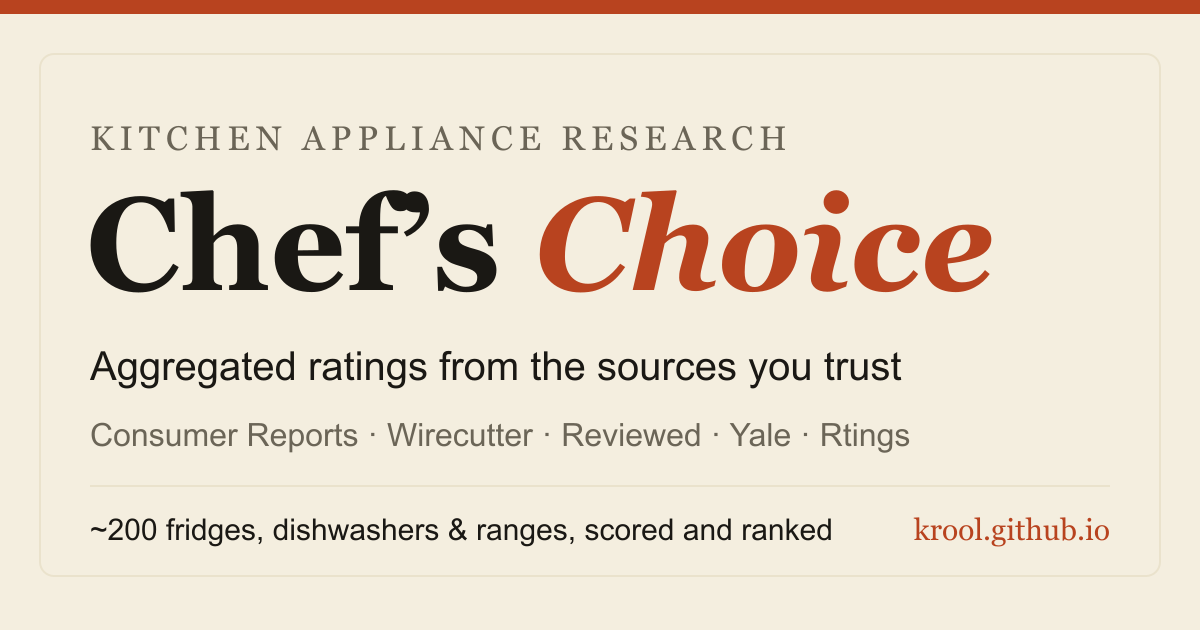
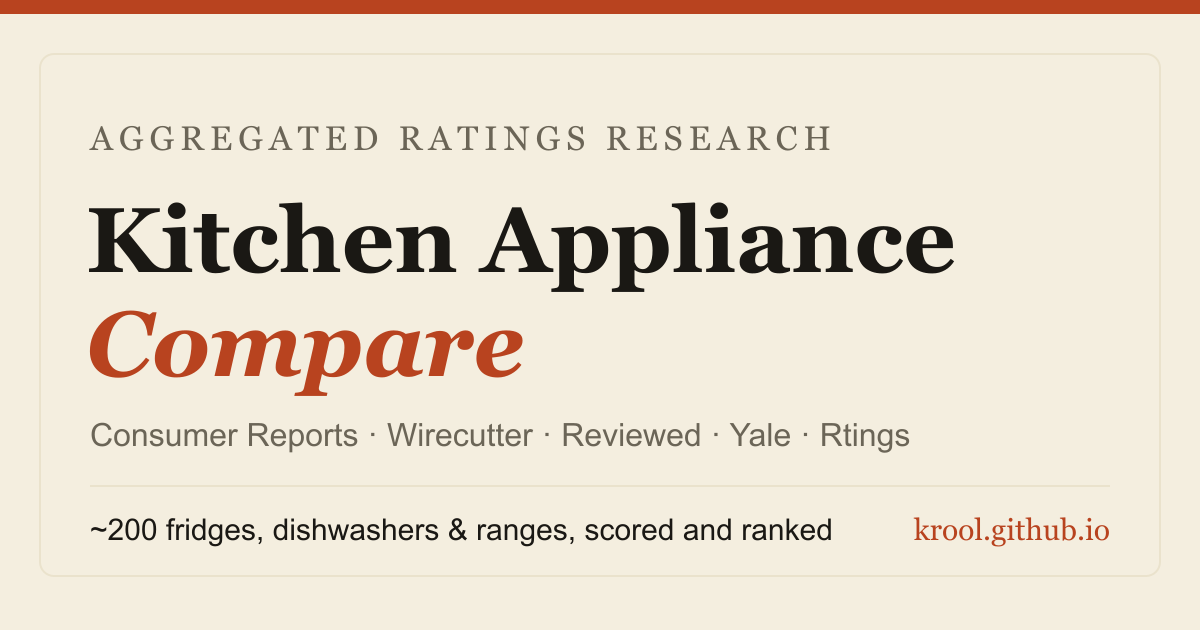
Rebrand: Chef's Choice -> Kitchen Appliance Compare
Updates header brand mark, boot skeleton, page title, OG/Twitter/JSON-LD
metadata, GA content group, og.png card, package name, README, and
CLAUDE.md. Rebuilds docs/.

Changed region(s): [[0.0617, 0.3016, 0.8325, 0.6333], [0.0617, 0.181, 0.7092, 0.2413]]

diff --git a/docs/assets/index-DZJdIyhn.js b/docs/assets/index-DZJdIyhn.js
@@ -127,4 +127,4 @@ Error generating stack: `+i.message+`
   .twk-swatch::-webkit-color-swatch-wrapper{padding:0}
   .twk-swatch::-webkit-color-swatch{border:0;border-radius:5.5px}
   .twk-swatch::-moz-color-swatch{border:0;border-radius:5.5px}
-`,ts=()=>typeof window<"u"&&window.parent!==window;function xp(e){const[t,n]=De.useState(e),r=De.useCallback((l,i)=>{const s=typeof l=="object"&&l!==null?l:{[l]:i};n(u=>({...u,...s})),ts()&&window.parent.postMessage({type:"__edit_mode_set_keys",edits:s},"*")},[]);return[t,r]}function kp({title:e="Tweaks",children:t}){const[n,r]=De.useState(!1),l=De.useRef(null),i=De.useRef({x:16,y:16}),s=16,u=De.useCallback(()=>{const f=l.current;if(!f)return;const g=f.offsetWidth,y=f.offsetHeight,w=Math.max(s,window.innerWidth-g-s),m=Math.max(s,window.innerHeight-y-s);i.current={x:Math.min(w,Math.max(s,i.current.x)),y:Math.min(m,Math.max(s,i.current.y))},f.style.right=i.current.x+"px",f.style.bottom=i.current.y+"px"},[]);De.useEffect(()=>{if(!n)return;if(u(),typeof ResizeObserver>"u")return window.addEventListener("resize",u),()=>window.removeEventListener("resize",u);const f=new ResizeObserver(u);return f.observe(document.documentElement),()=>f.disconnect()},[n,u]),De.useEffect(()=>{const f=g=>{var w;if(g.source!==window.parent)return;const y=(w=g==null?void 0:g.data)==null?void 0:w.type;y==="__activate_edit_mode"?r(!0):y==="__deactivate_edit_mode"&&r(!1)};return window.addEventListener("message",f),ts()&&window.parent.postMessage({type:"__edit_mode_available"},"*"),()=>window.removeEventListener("message",f)},[]);const c=()=>{r(!1),ts()&&window.parent.postMessage({type:"__edit_mode_dismissed"},"*")},a=f=>{const g=l.current;if(!g)return;const y=g.getBoundingClientRect(),w=f.clientX,m=f.clientY,v=window.innerWidth-y.right,P=window.innerHeight-y.bottom,h=p=>{i.current={x:v-(p.clientX-w),y:P-(p.clientY-m)},u()},d=()=>{window.removeEventListener("mousemove",h),window.removeEventListener("mouseup",d)};window.addEventListener("mousemove",h),window.addEventListener("mouseup",d)};return n?o.jsxs(o.Fragment,{children:[o.jsx("style",{children:wp}),o.jsxs("div",{ref:l,className:"twk-panel",style:{right:i.current.x,bottom:i.current.y},children:[o.jsxs("div",{className:"twk-hd",onMouseDown:a,children:[o.jsx("b",{children:e}),o.jsx("button",{className:"twk-x","aria-label":"Close tweaks",onMouseDown:f=>f.stopPropagation(),onClick:c,children:"✕"})]}),o.jsx("div",{className:"twk-body",children:t})]})]}):null}function da({label:e,children:t}){return o.jsxs(o.Fragment,{children:[o.jsx("div",{className:"twk-sect",children:e}),t]})}function Mc({label:e,value:t,children:n,inline:r=!1}){return o.jsxs("div",{className:r?"twk-row twk-row-h":"twk-row",children:[o.jsxs("div",{className:"twk-lbl",children:[o.jsx("span",{children:e}),t!=null&&o.jsx("span",{className:"twk-val",children:t})]}),n]})}function Ft({label:e,value:t,min:n=0,max:r=100,step:l=1,unit:i="",onChange:s}){return o.jsx(Mc,{label:e,value:`${t}${i}`,children:o.jsx("input",{type:"range",className:"twk-slider",min:n,max:r,step:l,"aria-label":e,value:t,onChange:u=>s(Number(u.target.value))})})}function _p({label:e,value:t,onChange:n}){return o.jsxs("div",{className:"twk-row twk-row-h",children:[o.jsx("div",{className:"twk-lbl",children:o.jsx("span",{children:e})}),o.jsx("button",{type:"button",className:"twk-toggle","data-on":t?"1":"0",role:"switch","aria-checked":!!t,"aria-label":e,onClick:()=>n(!t),children:o.jsx("i",{})})]})}function Sp({label:e,value:t,options:n,onChange:r}){const l=De.useRef(null),[i,s]=De.useState(!1),u=n.map(m=>typeof m=="object"?m:{value:m,label:m}),c=Math.max(0,u.findIndex(m=>m.value===t)),a=u.length,f=De.useRef(t);f.current=t;const g=m=>{const v=l.current.getBoundingClientRect(),P=v.width-4,h=Math.floor((m-v.left-2)/P*a);return u[Math.max(0,Math.min(a-1,h))].value},y=m=>{s(!0);const v=g(m.clientX);v!==f.current&&r(v);const P=d=>{if(!l.current)return;const p=g(d.clientX);p!==f.current&&r(p)},h=()=>{s(!1),window.removeEventListener("pointermove",P),window.removeEventListener("pointerup",h)};window.addEventListener("pointermove",P),window.addEventListener("pointerup",h)},w=m=>{let v=null;m.key==="ArrowRight"||m.key==="ArrowDown"?v=(c+1)%a:m.key==="ArrowLeft"||m.key==="ArrowUp"?v=(c-1+a)%a:m.key==="Home"?v=0:m.key==="End"&&(v=a-1),v!=null&&(m.preventDefault(),r(u[v].value))};return o.jsx(Mc,{label:e,children:o.jsxs("div",{ref:l,role:"radiogroup","aria-label":e,onPointerDown:y,className:i?"twk-seg dragging":"twk-seg",children:[o.jsx("div",{className:"twk-seg-thumb",style:{left:`calc(2px + ${c} * (100% - 4px) / ${a})`,width:`calc((100% - 4px) / ${a})`}}),u.map(m=>o.jsx("button",{type:"button",role:"radio","aria-checked":m.value===t,tabIndex:m.value===t?0:-1,onKeyDown:w,onClick:()=>r(m.value),children:m.label},m.value))]})})}const Rc="cc:state:v1",Tc=new Set(["refrigerators","dishwashers","ranges_ovens_cooktops","guide"]),zc="refrigerators",Lc={brand:"array",tier:"array",style:"array",depth:"array",fuel:"array",type:"array",tub:"array",reliability:"array",width:"array-num",priceMin:"num",priceMax:"num",dbMax:"num",capacityMin:"num",capacityMax:"num",heightMin:"num",heightMax:"num",energyStar:"bool",wifi:"bool",panelReady:"bool",airFry:"bool",location:"str"};function jp(e,t){for(const[n,r]of Object.entries(Lc)){const l=t[n];l==null||l===""||Array.isArray(l)&&l.length===0||l===!1||(r==="array"||r==="array-num"?e.set(n,l.join(",")):r==="bool"?e.set(n,"1"):e.set(n,String(l)))}}function Np(e){const t={};for(const[n,r]of Object.entries(Lc)){const l=e.get(n);if(l!=null)if(r==="array")t[n]=l.split(",").filter(Boolean);else if(r==="array-num")t[n]=l.split(",").map(Number).filter(i=>!Number.isNaN(i));else if(r==="num"){const i=Number(l);Number.isNaN(i)||(t[n]=i)}else r==="bool"?l==="1"&&(t[n]=!0):t[n]=l}return t}function Cp(){const e=window.location.hash.replace(/^#/,"");if(!e)return null;const t=new URLSearchParams(e),n=t.get("tab"),r=t.get("c");return{tab:Tc.has(n)?n:null,search:t.get("q")||"",collapsed:r!=null?Object.fromEntries(r.split(",").filter(Boolean).map(l=>[l,!0])):null,filters:Np(t)}}function Ep({tab:e,filters:t,search:n,collapsed:r}){const l=new URLSearchParams;e&&e!==zc&&l.set("tab",e),e!=="guide"&&(jp(l,t),n&&l.set("q",n));const i=Object.keys(r).filter(a=>r[a]);i.length&&l.set("c",i.join(","));const s=l.toString(),u=s?"#"+s:"";if(window.location.hash===u)return;const c=window.location.pathname+window.location.search+u;window.history.replaceState(null,"",c||window.location.pathname)}function oi(){try{return JSON.parse(localStorage.getItem(Rc))||{}}catch{return{}}}function Pp(e){try{localStorage.setItem(Rc,JSON.stringify(e))}catch{}}const Mp={weight_quality:30,weight_reliability:15,weight_price:5,weight_repairability:5,weight_energy:5,weight_quiet:10,weight_endorsements:30,density:"comfortable",showRetiredScores:!0,hideThinConfidence:!1};function Rp({data:e}){var le,ft,M;const t=I.useMemo(()=>{const x=Cp(),R=oi();let D;x!=null&&x.tab?D=x.tab:R.tab&&Tc.has(R.tab)?D=R.tab:D=zc;const W=R.byCategory&&R.byCategory[D]||{},Ce=x&&(Object.keys(x.filters).length>0||x.search);return{tab:D,filters:Ce?x.filters:W.filters||{},search:Ce?x.search:W.search||"",collapsed:(x==null?void 0:x.collapsed)!=null?x.collapsed:R.collapsed||{}}},[]),[n,r]=I.useState(t.tab),[l,i]=I.useState(t.filters),[s,u]=I.useState({key:"score",dir:"desc"}),[c,a]=I.useState(t.search),[f,g]=I.useState(t.collapsed),[y,w]=I.useState(null),[m,v]=I.useState([]),[P,h]=I.useState(!1),[d,p]=xp(Mp),_={quality:d.weight_quality,reliability:d.weight_reliability,price:d.weight_price,repairability:d.weight_repairability,energy:d.weight_energy,quiet:d.weight_quiet,endorsements:d.weight_endorsements},j=n==="guide",k=j?"refrigerators":n,E=I.useMemo(()=>{const x=e.categories[k];return x?x.models:[]},[e,k]),C=I.useMemo(()=>{const x={};return e.brands.forEach(R=>x[R.id]=R),x},[e.brands]),L=I.useMemo(()=>E.filter(x=>{var W,Ce,Fe,S,F,b,Ee,pt,tt,ae;const R=C[x.brand];if((W=l.brand)!=null&&W.length&&!l.brand.includes(x.brand)||(Ce=l.tier)!=null&&Ce.length&&!l.tier.includes(R==null?void 0:R.tier)||(Fe=l.style)!=null&&Fe.length&&!l.style.includes(x.style)||(S=l.depth)!=null&&S.length&&!l.depth.includes(x.depth)||(F=l.width)!=null&&F.length&&!l.width.includes(x.width_in)||(b=l.fuel)!=null&&b.length&&!l.fuel.includes(x.fuel)||(Ee=l.type)!=null&&Ee.length&&!l.type.includes(x.type)||(pt=l.reliability)!=null&&pt.length&&!l.reliability.includes((tt=x.ratings)==null?void 0:tt.cr_reliability)||(ae=l.tub)!=null&&ae.length&&!l.tub.includes(x.tub)||l.energyStar&&!x.energy_star||l.wifi&&!x.wifi||l.panelReady&&!x.panel_ready||l.airFry&&!x.air_fry)return!1;if(l.location==="garage"){if(!x.garage_ready)return!1}else if(x.garage_ready===!0)return!1;const D=x.street_price??x.msrp;if(l.priceMin!=null&&D<l.priceMin||l.priceMax!=null&&D>l.priceMax)return!1;if(l.dbMax!=null){const te=x.decibels??x.noise_db;if(te==null||te>l.dbMax)return!1}if(l.capacityMin!=null||l.capacityMax!=null){const te=x.capacity_cf??x.oven_capacity_cf;if(te==null||l.capacityMin!=null&&te<l.capacityMin||l.capacityMax!=null&&te>l.capacityMax)return!1}if(l.heightMin!=null||l.heightMax!=null){const te=x.height_in;if(te==null||l.heightMin!=null&&te<l.heightMin||l.heightMax!=null&&te>l.heightMax)return!1}if(c){const te=c.toLowerCase();if(!(x.name+" "+x.model+" "+((R==null?void 0:R.name)||"")).toLowerCase().includes(te))return!1}return!(d.hideThinConfidence&&Fl(x,R).tier==="thin")}),[E,l,C,c,d.hideThinConfidence]),z=I.useRef(t.tab);I.useEffect(()=>{if(z.current===n||(z.current=n,u({key:"score",dir:"desc"}),n==="guide"))return;const x=oi(),R=x.byCategory&&x.byCategory[n]||{};i(R.filters||{}),a(R.search||"")},[n]),I.useEffect(()=>{const x=oi(),R={...x,tab:n,collapsed:f};n!=="guide"&&(R.byCategory={...x.byCategory||{},[n]:{filters:l,search:c}}),Pp(R),Ep({tab:n,filters:l,search:c,collapsed:f})},[n,l,c,f]);const $=L.find(x=>x.id===y)||E.find(x=>x.id===y),pe=$?C[$.brand]:null,we=x=>{v(R=>R.includes(x)?R.filter(D=>D!==x):R.length>=4?R:[...R,x])},xe=[{id:"refrigerators",label:"Refrigerators",n:e.categories.refrigerators.models.length},{id:"dishwashers",label:"Dishwashers",n:e.categories.dishwashers.models.length},{id:"ranges_ovens_cooktops",label:"Ranges & Ovens",n:e.categories.ranges_ovens_cooktops.models.length},{id:"guide",label:"Buying Guide"}],Ge=I.useMemo(()=>e.categories.refrigerators.models.length+e.categories.dishwashers.models.length+e.categories.ranges_ovens_cooktops.models.length,[e]);return I.useEffect(()=>(m.length?document.body.classList.add("has-compare"):document.body.classList.remove("has-compare"),()=>document.body.classList.remove("has-compare")),[m.length]),I.useEffect(()=>(document.body.dataset.density=d.density,()=>{delete document.body.dataset.density}),[d.density]),o.jsxs(o.Fragment,{children:[o.jsx("a",{className:"skip-link",href:"#main",children:"Skip to main content"}),o.jsx("header",{className:"site-header",children:o.jsxs("div",{className:"header-inner",children:[o.jsxs("div",{className:"brand",children:[o.jsxs("span",{className:"brand-mark",children:["Chef's ",o.jsx("em",{children:"Choice"})]}),o.jsx("span",{className:"brand-tag",children:"Kitchen appliance research · 2026"})]}),o.jsx("nav",{className:"tabs","aria-label":"Section",children:xe.map(x=>o.jsxs("button",{"aria-current":n===x.id?"page":void 0,className:"tab-btn "+(n===x.id?"active":""),onClick:()=>r(x.id),children:[x.label,x.n?o.jsx("span",{className:"tab-count",children:x.n}):null]},x.id))}),o.jsx("div",{className:"header-right",children:o.jsxs("span",{className:"header-stats",children:[o.jsx("strong",{children:e.brands.length})," brands · ",o.jsx("strong",{children:Ge})," models"]})})]})}),j?o.jsx("main",{className:"guide-wrap",id:"main",tabIndex:-1,children:o.jsx(zp,{guide:e.guide,brandsById:C})}):o.jsxs("main",{className:"app",id:"main",tabIndex:-1,children:[o.jsx(ap,{category:k,models:E,brands:e.brands,filters:l,setFilters:i,collapsed:f,setCollapsed:g,onClearAll:()=>{i({}),a("")}}),o.jsxs("div",{className:"main",children:[o.jsxs("h1",{className:"sr-only",children:["Chef's Choice — ",((le=xe.find(x=>x.id===n))==null?void 0:le.label)||"kitchen appliance"," research"]}),o.jsxs("div",{className:"toolbar",children:[o.jsxs("div",{className:"search-box",children:[o.jsx("input",{value:c,onChange:x=>a(x.target.value),"aria-label":`Search ${(ft=xe.find(x=>x.id===n))==null?void 0:ft.label.toLowerCase()}`,placeholder:`Search ${(M=xe.find(x=>x.id===n))==null?void 0:M.label.toLowerCase()}…`}),c&&o.jsx("button",{type:"button",className:"search-clear","aria-label":"Clear search",onClick:()=>a(""),children:"✕"})]}),k==="refrigerators"&&o.jsx(Tp,{value:l.location||"kitchen",onChange:x=>i({...l,location:x==="kitchen"?null:x})})]}),o.jsxs("div",{className:"results-meta",children:[o.jsxs("span",{"aria-live":"polite","aria-atomic":"true",children:["Showing ",o.jsx("strong",{children:L.length})," of ",E.length," models"]}),o.jsx("span",{children:"Click a column header to sort. Click any row for full specs."})]}),o.jsx(hp,{category:k,models:L,brandsById:C,weights:_,sort:s,setSort:u,selected:m,toggleCompare:we,onOpen:x=>w(x.id),onClearFilters:()=>{i({}),a("")}})]})]}),$&&o.jsx(mp,{model:$,brand:pe,weights:_,onClose:()=>w(null),onAddCompare:x=>we(x),isCompared:m.includes(y)}),o.jsx(gp,{ids:m,models:[...e.categories.refrigerators.models,...e.categories.dishwashers.models,...e.categories.ranges_ovens_cooktops.models],brandsById:C,onRemove:x=>v(R=>R.filter(D=>D!==x)),onClear:()=>v([]),onOpen:()=>h(!0)}),P&&o.jsx(yp,{ids:m,models:[...e.categories.refrigerators.models,...e.categories.dishwashers.models,...e.categories.ranges_ovens_cooktops.models],brandsById:C,weights:_,onClose:()=>h(!1)}),o.jsxs(kp,{title:"Tweaks",children:[o.jsxs(da,{label:"Score weights",children:[o.jsx(Ft,{label:"Quality (review aggregate)",value:d.weight_quality,onChange:x=>p("weight_quality",x),min:0,max:50,step:5}),o.jsx(Ft,{label:"Endorsements (editorial picks)",value:d.weight_endorsements,onChange:x=>p("weight_endorsements",x),min:0,max:50,step:5}),o.jsx(Ft,{label:"Reliability (Yale service rate)",value:d.weight_reliability,onChange:x=>p("weight_reliability",x),min:0,max:50,step:5}),o.jsx(Ft,{label:"Price",value:d.weight_price,onChange:x=>p("weight_price",x),min:0,max:50,step:5}),o.jsx(Ft,{label:"Repairability",value:d.weight_repairability,onChange:x=>p("weight_repairability",x),min:0,max:50,step:5}),o.jsx(Ft,{label:"Energy (ongoing cost)",value:d.weight_energy,onChange:x=>p("weight_energy",x),min:0,max:50,step:5}),o.jsx(Ft,{label:"Quietness",value:d.weight_quiet,onChange:x=>p("weight_quiet",x),min:0,max:50,step:5})]}),o.jsxs(da,{label:"Display",children:[o.jsx(Sp,{label:"Density",value:d.density,onChange:x=>p("density",x),options:[{value:"comfortable",label:"Comfortable"},{value:"compact",label:"Compact"}]}),o.jsx(_p,{label:"Hide thin-confidence rows",value:d.hideThinConfidence,onChange:x=>p("hideThinConfidence",x)})]})]})]})}function Tp({value:e,onChange:t}){const n=[{id:"kitchen",label:"Kitchen",tip:"Indoor-only fridges. Hides garage-rated models — those are tuned for wider ambient temps and aren't really designed for indoors."},{id:"garage",label:"Garage",tip:"Only models the manufacturer rates as Garage Ready (wider ambient temp range, typically 38–110°F)."}],r=l=>{const i=n.findIndex(u=>u.id===e);let s=null;l.key==="ArrowRight"||l.key==="ArrowDown"?s=(i+1)%n.length:(l.key==="ArrowLeft"||l.key==="ArrowUp")&&(s=(i-1+n.length)%n.length),s!=null&&(l.preventDefault(),t(n[s].id))};return o.jsxs("div",{className:"loc-toggle",role:"radiogroup","aria-label":"Refrigerator location",children:[o.jsx("span",{className:"loc-toggle-label","aria-hidden":"true",children:"Location"}),n.map(l=>o.jsxs("button",{role:"radio",type:"button","aria-checked":e===l.id,tabIndex:e===l.id?0:-1,className:e===l.id?"active":"",onClick:()=>t(l.id),onKeyDown:r,children:[o.jsx("span",{className:"th-label",children:l.label}),o.jsx("span",{className:"th-tip",role:"tooltip",children:l.tip})]},l.id))]})}function zp({guide:e,brandsById:t}){const[n,r]=I.useState("refrigerators"),l=[["refrigerators","Refrigerators"],["dishwashers","Dishwashers"],["ranges_ovens_cooktops","Ranges, Ovens & Cooktops"]];return o.jsxs(o.Fragment,{children:[o.jsx("div",{className:"guide-cat-tabs",role:"group","aria-label":"Guide category",children:l.map(([i,s])=>o.jsx("button",{type:"button","aria-pressed":n===i,className:"guide-cat-tab "+(n===i?"active":""),onClick:()=>r(i),children:s},i))}),o.jsx(vp,{guide:e,category:n,brandsById:t})]})}async function Lp(){const e=async s=>{const u=await fetch(s);if(!u.ok)throw new Error(`${s}: ${u.status} ${u.statusText}`);return u.json()},[t,n,r,l,i]=await Promise.all([e("data/brands.json"),e("data/refrigerators.json"),e("data/dishwashers.json"),e("data/ovens.json"),e("data/buying-guide.json")]);return{brands:t.brands,categories:{refrigerators:{models:n.models},dishwashers:{models:r.models},ranges_ovens_cooktops:{models:l.models}},guide:i}}Lp().then(e=>{ai.createRoot(document.getElementById("root")).render(o.jsx(De.StrictMode,{children:o.jsx(Rp,{data:e})}))}).catch(e=>{const t=document.getElementById("root");t.textContent="";const n=document.createElement("div");n.style.cssText="padding:40px;font-family:system-ui;color:#9b2226";const r=document.createElement("h2");r.textContent="Failed to load data";const l=document.createElement("pre");l.textContent=e.message,n.appendChild(r),n.appendChild(l),t.appendChild(n)});
+`,ts=()=>typeof window<"u"&&window.parent!==window;function xp(e){const[t,n]=De.useState(e),r=De.useCallback((l,i)=>{const s=typeof l=="object"&&l!==null?l:{[l]:i};n(u=>({...u,...s})),ts()&&window.parent.postMessage({type:"__edit_mode_set_keys",edits:s},"*")},[]);return[t,r]}function kp({title:e="Tweaks",children:t}){const[n,r]=De.useState(!1),l=De.useRef(null),i=De.useRef({x:16,y:16}),s=16,u=De.useCallback(()=>{const f=l.current;if(!f)return;const g=f.offsetWidth,y=f.offsetHeight,w=Math.max(s,window.innerWidth-g-s),m=Math.max(s,window.innerHeight-y-s);i.current={x:Math.min(w,Math.max(s,i.current.x)),y:Math.min(m,Math.max(s,i.current.y))},f.style.right=i.current.x+"px",f.style.bottom=i.current.y+"px"},[]);De.useEffect(()=>{if(!n)return;if(u(),typeof ResizeObserver>"u")return window.addEventListener("resize",u),()=>window.removeEventListener("resize",u);const f=new ResizeObserver(u);return f.observe(document.documentElement),()=>f.disconnect()},[n,u]),De.useEffect(()=>{const f=g=>{var w;if(g.source!==window.parent)return;const y=(w=g==null?void 0:g.data)==null?void 0:w.type;y==="__activate_edit_mode"?r(!0):y==="__deactivate_edit_mode"&&r(!1)};return window.addEventListener("message",f),ts()&&window.parent.postMessage({type:"__edit_mode_available"},"*"),()=>window.removeEventListener("message",f)},[]);const c=()=>{r(!1),ts()&&window.parent.postMessage({type:"__edit_mode_dismissed"},"*")},a=f=>{const g=l.current;if(!g)return;const y=g.getBoundingClientRect(),w=f.clientX,m=f.clientY,v=window.innerWidth-y.right,P=window.innerHeight-y.bottom,h=p=>{i.current={x:v-(p.clientX-w),y:P-(p.clientY-m)},u()},d=()=>{window.removeEventListener("mousemove",h),window.removeEventListener("mouseup",d)};window.addEventListener("mousemove",h),window.addEventListener("mouseup",d)};return n?o.jsxs(o.Fragment,{children:[o.jsx("style",{children:wp}),o.jsxs("div",{ref:l,className:"twk-panel",style:{right:i.current.x,bottom:i.current.y},children:[o.jsxs("div",{className:"twk-hd",onMouseDown:a,children:[o.jsx("b",{children:e}),o.jsx("button",{className:"twk-x","aria-label":"Close tweaks",onMouseDown:f=>f.stopPropagation(),onClick:c,children:"✕"})]}),o.jsx("div",{className:"twk-body",children:t})]})]}):null}function da({label:e,children:t}){return o.jsxs(o.Fragment,{children:[o.jsx("div",{className:"twk-sect",children:e}),t]})}function Mc({label:e,value:t,children:n,inline:r=!1}){return o.jsxs("div",{className:r?"twk-row twk-row-h":"twk-row",children:[o.jsxs("div",{className:"twk-lbl",children:[o.jsx("span",{children:e}),t!=null&&o.jsx("span",{className:"twk-val",children:t})]}),n]})}function Ft({label:e,value:t,min:n=0,max:r=100,step:l=1,unit:i="",onChange:s}){return o.jsx(Mc,{label:e,value:`${t}${i}`,children:o.jsx("input",{type:"range",className:"twk-slider",min:n,max:r,step:l,"aria-label":e,value:t,onChange:u=>s(Number(u.target.value))})})}function _p({label:e,value:t,onChange:n}){return o.jsxs("div",{className:"twk-row twk-row-h",children:[o.jsx("div",{className:"twk-lbl",children:o.jsx("span",{children:e})}),o.jsx("button",{type:"button",className:"twk-toggle","data-on":t?"1":"0",role:"switch","aria-checked":!!t,"aria-label":e,onClick:()=>n(!t),children:o.jsx("i",{})})]})}function Sp({label:e,value:t,options:n,onChange:r}){const l=De.useRef(null),[i,s]=De.useState(!1),u=n.map(m=>typeof m=="object"?m:{value:m,label:m}),c=Math.max(0,u.findIndex(m=>m.value===t)),a=u.length,f=De.useRef(t);f.current=t;const g=m=>{const v=l.current.getBoundingClientRect(),P=v.width-4,h=Math.floor((m-v.left-2)/P*a);return u[Math.max(0,Math.min(a-1,h))].value},y=m=>{s(!0);const v=g(m.clientX);v!==f.current&&r(v);const P=d=>{if(!l.current)return;const p=g(d.clientX);p!==f.current&&r(p)},h=()=>{s(!1),window.removeEventListener("pointermove",P),window.removeEventListener("pointerup",h)};window.addEventListener("pointermove",P),window.addEventListener("pointerup",h)},w=m=>{let v=null;m.key==="ArrowRight"||m.key==="ArrowDown"?v=(c+1)%a:m.key==="ArrowLeft"||m.key==="ArrowUp"?v=(c-1+a)%a:m.key==="Home"?v=0:m.key==="End"&&(v=a-1),v!=null&&(m.preventDefault(),r(u[v].value))};return o.jsx(Mc,{label:e,children:o.jsxs("div",{ref:l,role:"radiogroup","aria-label":e,onPointerDown:y,className:i?"twk-seg dragging":"twk-seg",children:[o.jsx("div",{className:"twk-seg-thumb",style:{left:`calc(2px + ${c} * (100% - 4px) / ${a})`,width:`calc((100% - 4px) / ${a})`}}),u.map(m=>o.jsx("button",{type:"button",role:"radio","aria-checked":m.value===t,tabIndex:m.value===t?0:-1,onKeyDown:w,onClick:()=>r(m.value),children:m.label},m.value))]})})}const Rc="cc:state:v1",Tc=new Set(["refrigerators","dishwashers","ranges_ovens_cooktops","guide"]),zc="refrigerators",Lc={brand:"array",tier:"array",style:"array",depth:"array",fuel:"array",type:"array",tub:"array",reliability:"array",width:"array-num",priceMin:"num",priceMax:"num",dbMax:"num",capacityMin:"num",capacityMax:"num",heightMin:"num",heightMax:"num",energyStar:"bool",wifi:"bool",panelReady:"bool",airFry:"bool",location:"str"};function jp(e,t){for(const[n,r]of Object.entries(Lc)){const l=t[n];l==null||l===""||Array.isArray(l)&&l.length===0||l===!1||(r==="array"||r==="array-num"?e.set(n,l.join(",")):r==="bool"?e.set(n,"1"):e.set(n,String(l)))}}function Np(e){const t={};for(const[n,r]of Object.entries(Lc)){const l=e.get(n);if(l!=null)if(r==="array")t[n]=l.split(",").filter(Boolean);else if(r==="array-num")t[n]=l.split(",").map(Number).filter(i=>!Number.isNaN(i));else if(r==="num"){const i=Number(l);Number.isNaN(i)||(t[n]=i)}else r==="bool"?l==="1"&&(t[n]=!0):t[n]=l}return t}function Cp(){const e=window.location.hash.replace(/^#/,"");if(!e)return null;const t=new URLSearchParams(e),n=t.get("tab"),r=t.get("c");return{tab:Tc.has(n)?n:null,search:t.get("q")||"",collapsed:r!=null?Object.fromEntries(r.split(",").filter(Boolean).map(l=>[l,!0])):null,filters:Np(t)}}function Ep({tab:e,filters:t,search:n,collapsed:r}){const l=new URLSearchParams;e&&e!==zc&&l.set("tab",e),e!=="guide"&&(jp(l,t),n&&l.set("q",n));const i=Object.keys(r).filter(a=>r[a]);i.length&&l.set("c",i.join(","));const s=l.toString(),u=s?"#"+s:"";if(window.location.hash===u)return;const c=window.location.pathname+window.location.search+u;window.history.replaceState(null,"",c||window.location.pathname)}function oi(){try{return JSON.parse(localStorage.getItem(Rc))||{}}catch{return{}}}function Pp(e){try{localStorage.setItem(Rc,JSON.stringify(e))}catch{}}const Mp={weight_quality:30,weight_reliability:15,weight_price:5,weight_repairability:5,weight_energy:5,weight_quiet:10,weight_endorsements:30,density:"comfortable",showRetiredScores:!0,hideThinConfidence:!1};function Rp({data:e}){var le,ft,M;const t=I.useMemo(()=>{const x=Cp(),R=oi();let D;x!=null&&x.tab?D=x.tab:R.tab&&Tc.has(R.tab)?D=R.tab:D=zc;const W=R.byCategory&&R.byCategory[D]||{},Ce=x&&(Object.keys(x.filters).length>0||x.search);return{tab:D,filters:Ce?x.filters:W.filters||{},search:Ce?x.search:W.search||"",collapsed:(x==null?void 0:x.collapsed)!=null?x.collapsed:R.collapsed||{}}},[]),[n,r]=I.useState(t.tab),[l,i]=I.useState(t.filters),[s,u]=I.useState({key:"score",dir:"desc"}),[c,a]=I.useState(t.search),[f,g]=I.useState(t.collapsed),[y,w]=I.useState(null),[m,v]=I.useState([]),[P,h]=I.useState(!1),[d,p]=xp(Mp),_={quality:d.weight_quality,reliability:d.weight_reliability,price:d.weight_price,repairability:d.weight_repairability,energy:d.weight_energy,quiet:d.weight_quiet,endorsements:d.weight_endorsements},j=n==="guide",k=j?"refrigerators":n,E=I.useMemo(()=>{const x=e.categories[k];return x?x.models:[]},[e,k]),C=I.useMemo(()=>{const x={};return e.brands.forEach(R=>x[R.id]=R),x},[e.brands]),L=I.useMemo(()=>E.filter(x=>{var W,Ce,Fe,S,F,b,Ee,pt,tt,ae;const R=C[x.brand];if((W=l.brand)!=null&&W.length&&!l.brand.includes(x.brand)||(Ce=l.tier)!=null&&Ce.length&&!l.tier.includes(R==null?void 0:R.tier)||(Fe=l.style)!=null&&Fe.length&&!l.style.includes(x.style)||(S=l.depth)!=null&&S.length&&!l.depth.includes(x.depth)||(F=l.width)!=null&&F.length&&!l.width.includes(x.width_in)||(b=l.fuel)!=null&&b.length&&!l.fuel.includes(x.fuel)||(Ee=l.type)!=null&&Ee.length&&!l.type.includes(x.type)||(pt=l.reliability)!=null&&pt.length&&!l.reliability.includes((tt=x.ratings)==null?void 0:tt.cr_reliability)||(ae=l.tub)!=null&&ae.length&&!l.tub.includes(x.tub)||l.energyStar&&!x.energy_star||l.wifi&&!x.wifi||l.panelReady&&!x.panel_ready||l.airFry&&!x.air_fry)return!1;if(l.location==="garage"){if(!x.garage_ready)return!1}else if(x.garage_ready===!0)return!1;const D=x.street_price??x.msrp;if(l.priceMin!=null&&D<l.priceMin||l.priceMax!=null&&D>l.priceMax)return!1;if(l.dbMax!=null){const te=x.decibels??x.noise_db;if(te==null||te>l.dbMax)return!1}if(l.capacityMin!=null||l.capacityMax!=null){const te=x.capacity_cf??x.oven_capacity_cf;if(te==null||l.capacityMin!=null&&te<l.capacityMin||l.capacityMax!=null&&te>l.capacityMax)return!1}if(l.heightMin!=null||l.heightMax!=null){const te=x.height_in;if(te==null||l.heightMin!=null&&te<l.heightMin||l.heightMax!=null&&te>l.heightMax)return!1}if(c){const te=c.toLowerCase();if(!(x.name+" "+x.model+" "+((R==null?void 0:R.name)||"")).toLowerCase().includes(te))return!1}return!(d.hideThinConfidence&&Fl(x,R).tier==="thin")}),[E,l,C,c,d.hideThinConfidence]),z=I.useRef(t.tab);I.useEffect(()=>{if(z.current===n||(z.current=n,u({key:"score",dir:"desc"}),n==="guide"))return;const x=oi(),R=x.byCategory&&x.byCategory[n]||{};i(R.filters||{}),a(R.search||"")},[n]),I.useEffect(()=>{const x=oi(),R={...x,tab:n,collapsed:f};n!=="guide"&&(R.byCategory={...x.byCategory||{},[n]:{filters:l,search:c}}),Pp(R),Ep({tab:n,filters:l,search:c,collapsed:f})},[n,l,c,f]);const $=L.find(x=>x.id===y)||E.find(x=>x.id===y),pe=$?C[$.brand]:null,we=x=>{v(R=>R.includes(x)?R.filter(D=>D!==x):R.length>=4?R:[...R,x])},xe=[{id:"refrigerators",label:"Refrigerators",n:e.categories.refrigerators.models.length},{id:"dishwashers",label:"Dishwashers",n:e.categories.dishwashers.models.length},{id:"ranges_ovens_cooktops",label:"Ranges & Ovens",n:e.categories.ranges_ovens_cooktops.models.length},{id:"guide",label:"Buying Guide"}],Ge=I.useMemo(()=>e.categories.refrigerators.models.length+e.categories.dishwashers.models.length+e.categories.ranges_ovens_cooktops.models.length,[e]);return I.useEffect(()=>(m.length?document.body.classList.add("has-compare"):document.body.classList.remove("has-compare"),()=>document.body.classList.remove("has-compare")),[m.length]),I.useEffect(()=>(document.body.dataset.density=d.density,()=>{delete document.body.dataset.density}),[d.density]),o.jsxs(o.Fragment,{children:[o.jsx("a",{className:"skip-link",href:"#main",children:"Skip to main content"}),o.jsx("header",{className:"site-header",children:o.jsxs("div",{className:"header-inner",children:[o.jsxs("div",{className:"brand",children:[o.jsxs("span",{className:"brand-mark",children:["Kitchen Appliance ",o.jsx("em",{children:"Compare"})]}),o.jsx("span",{className:"brand-tag",children:"Aggregated ratings research · 2026"})]}),o.jsx("nav",{className:"tabs","aria-label":"Section",children:xe.map(x=>o.jsxs("button",{"aria-current":n===x.id?"page":void 0,className:"tab-btn "+(n===x.id?"active":""),onClick:()=>r(x.id),children:[x.label,x.n?o.jsx("span",{className:"tab-count",children:x.n}):null]},x.id))}),o.jsx("div",{className:"header-right",children:o.jsxs("span",{className:"header-stats",children:[o.jsx("strong",{children:e.brands.length})," brands · ",o.jsx("strong",{children:Ge})," models"]})})]})}),j?o.jsx("main",{className:"guide-wrap",id:"main",tabIndex:-1,children:o.jsx(zp,{guide:e.guide,brandsById:C})}):o.jsxs("main",{className:"app",id:"main",tabIndex:-1,children:[o.jsx(ap,{category:k,models:E,brands:e.brands,filters:l,setFilters:i,collapsed:f,setCollapsed:g,onClearAll:()=>{i({}),a("")}}),o.jsxs("div",{className:"main",children:[o.jsxs("h1",{className:"sr-only",children:["Kitchen Appliance Compare — ",((le=xe.find(x=>x.id===n))==null?void 0:le.label)||"kitchen appliance"," research"]}),o.jsxs("div",{className:"toolbar",children:[o.jsxs("div",{className:"search-box",children:[o.jsx("input",{value:c,onChange:x=>a(x.target.value),"aria-label":`Search ${(ft=xe.find(x=>x.id===n))==null?void 0:ft.label.toLowerCase()}`,placeholder:`Search ${(M=xe.find(x=>x.id===n))==null?void 0:M.label.toLowerCase()}…`}),c&&o.jsx("button",{type:"button",className:"search-clear","aria-label":"Clear search",onClick:()=>a(""),children:"✕"})]}),k==="refrigerators"&&o.jsx(Tp,{value:l.location||"kitchen",onChange:x=>i({...l,location:x==="kitchen"?null:x})})]}),o.jsxs("div",{className:"results-meta",children:[o.jsxs("span",{"aria-live":"polite","aria-atomic":"true",children:["Showing ",o.jsx("strong",{children:L.length})," of ",E.length," models"]}),o.jsx("span",{children:"Click a column header to sort. Click any row for full specs."})]}),o.jsx(hp,{category:k,models:L,brandsById:C,weights:_,sort:s,setSort:u,selected:m,toggleCompare:we,onOpen:x=>w(x.id),onClearFilters:()=>{i({}),a("")}})]})]}),$&&o.jsx(mp,{model:$,brand:pe,weights:_,onClose:()=>w(null),onAddCompare:x=>we(x),isCompared:m.includes(y)}),o.jsx(gp,{ids:m,models:[...e.categories.refrigerators.models,...e.categories.dishwashers.models,...e.categories.ranges_ovens_cooktops.models],brandsById:C,onRemove:x=>v(R=>R.filter(D=>D!==x)),onClear:()=>v([]),onOpen:()=>h(!0)}),P&&o.jsx(yp,{ids:m,models:[...e.categories.refrigerators.models,...e.categories.dishwashers.models,...e.categories.ranges_ovens_cooktops.models],brandsById:C,weights:_,onClose:()=>h(!1)}),o.jsxs(kp,{title:"Tweaks",children:[o.jsxs(da,{label:"Score weights",children:[o.jsx(Ft,{label:"Quality (review aggregate)",value:d.weight_quality,onChange:x=>p("weight_quality",x),min:0,max:50,step:5}),o.jsx(Ft,{label:"Endorsements (editorial picks)",value:d.weight_endorsements,onChange:x=>p("weight_endorsements",x),min:0,max:50,step:5}),o.jsx(Ft,{label:"Reliability (Yale service rate)",value:d.weight_reliability,onChange:x=>p("weight_reliability",x),min:0,max:50,step:5}),o.jsx(Ft,{label:"Price",value:d.weight_price,onChange:x=>p("weight_price",x),min:0,max:50,step:5}),o.jsx(Ft,{label:"Repairability",value:d.weight_repairability,onChange:x=>p("weight_repairability",x),min:0,max:50,step:5}),o.jsx(Ft,{label:"Energy (ongoing cost)",value:d.weight_energy,onChange:x=>p("weight_energy",x),min:0,max:50,step:5}),o.jsx(Ft,{label:"Quietness",value:d.weight_quiet,onChange:x=>p("weight_quiet",x),min:0,max:50,step:5})]}),o.jsxs(da,{label:"Display",children:[o.jsx(Sp,{label:"Density",value:d.density,onChange:x=>p("density",x),options:[{value:"comfortable",label:"Comfortable"},{value:"compact",label:"Compact"}]}),o.jsx(_p,{label:"Hide thin-confidence rows",value:d.hideThinConfidence,onChange:x=>p("hideThinConfidence",x)})]})]})]})}function Tp({value:e,onChange:t}){const n=[{id:"kitchen",label:"Kitchen",tip:"Indoor-only fridges. Hides garage-rated models — those are tuned for wider ambient temps and aren't really designed for indoors."},{id:"garage",label:"Garage",tip:"Only models the manufacturer rates as Garage Ready (wider ambient temp range, typically 38–110°F)."}],r=l=>{const i=n.findIndex(u=>u.id===e);let s=null;l.key==="ArrowRight"||l.key==="ArrowDown"?s=(i+1)%n.length:(l.key==="ArrowLeft"||l.key==="ArrowUp")&&(s=(i-1+n.length)%n.length),s!=null&&(l.preventDefault(),t(n[s].id))};return o.jsxs("div",{className:"loc-toggle",role:"radiogroup","aria-label":"Refrigerator location",children:[o.jsx("span",{className:"loc-toggle-label","aria-hidden":"true",children:"Location"}),n.map(l=>o.jsxs("button",{role:"radio",type:"button","aria-checked":e===l.id,tabIndex:e===l.id?0:-1,className:e===l.id?"active":"",onClick:()=>t(l.id),onKeyDown:r,children:[o.jsx("span",{className:"th-label",children:l.label}),o.jsx("span",{className:"th-tip",role:"tooltip",children:l.tip})]},l.id))]})}function zp({guide:e,brandsById:t}){const[n,r]=I.useState("refrigerators"),l=[["refrigerators","Refrigerators"],["dishwashers","Dishwashers"],["ranges_ovens_cooktops","Ranges, Ovens & Cooktops"]];return o.jsxs(o.Fragment,{children:[o.jsx("div",{className:"guide-cat-tabs",role:"group","aria-label":"Guide category",children:l.map(([i,s])=>o.jsx("button",{type:"button","aria-pressed":n===i,className:"guide-cat-tab "+(n===i?"active":""),onClick:()=>r(i),children:s},i))}),o.jsx(vp,{guide:e,category:n,brandsById:t})]})}async function Lp(){const e=async s=>{const u=await fetch(s);if(!u.ok)throw new Error(`${s}: ${u.status} ${u.statusText}`);return u.json()},[t,n,r,l,i]=await Promise.all([e("data/brands.json"),e("data/refrigerators.json"),e("data/dishwashers.json"),e("data/ovens.json"),e("data/buying-guide.json")]);return{brands:t.brands,categories:{refrigerators:{models:n.models},dishwashers:{models:r.models},ranges_ovens_cooktops:{models:l.models}},guide:i}}Lp().then(e=>{ai.createRoot(document.getElementById("root")).render(o.jsx(De.StrictMode,{children:o.jsx(Rp,{data:e})}))}).catch(e=>{const t=document.getElementById("root");t.textContent="";const n=document.createElement("div");n.style.cssText="padding:40px;font-family:system-ui;color:#9b2226";const r=document.createElement("h2");r.textContent="Failed to load data";const l=document.createElement("pre");l.textContent=e.message,n.appendChild(r),n.appendChild(l),t.appendChild(n)});

diff --git a/docs/index.html b/docs/index.html
@@ -2,7 +2,7 @@
 <html lang="en">
 <head>
   <meta charset="utf-8" />
-  <title>Chef's Choice — Kitchen Appliance Research, 2026</title>
+  <title>Kitchen Appliance Compare — Ratings Research, 2026</title>
   <meta name="viewport" content="width=device-width,initial-scale=1" />
   <meta http-equiv="Content-Security-Policy" content="default-src 'self'; script-src 'self' https://www.googletagmanager.com; style-src 'self' 'unsafe-inline' https://fonts.googleapis.com; font-src 'self' https://fonts.gstatic.com; img-src 'self' data: https://*.google-analytics.com https://*.googletagmanager.com; connect-src 'self' https://www.google-analytics.com https://*.analytics.google.com https://*.googletagmanager.com; base-uri 'self'; form-action 'none'" />
   <meta name="referrer" content="strict-origin-when-cross-origin" />
@@ -10,15 +10,15 @@
   <link rel="canonical" href="https://krool.github.io/ApplianceCompare/" />
   <!-- Open Graph / Social -->
   <meta property="og:type" content="website" />
-  <meta property="og:site_name" content="Chef's Choice" />
+  <meta property="og:site_name" content="Kitchen Appliance Compare" />
   <meta property="og:url" content="https://krool.github.io/ApplianceCompare/" />
-  <meta property="og:title" content="Chef's Choice — Kitchen Appliance Research" />
+  <meta property="og:title" content="Kitchen Appliance Compare — Ratings Research" />
   <meta property="og:description" content="Aggregated ratings from Consumer Reports, Wirecutter, Reviewed, Yale, and Rtings across ~200 refrigerators, dishwashers, and ranges. Retune the scoring weights live." />
   <meta property="og:image" content="https://krool.github.io/ApplianceCompare/og.png" />
   <meta property="og:image:width" content="1200" />
   <meta property="og:image:height" content="630" />
   <meta name="twitter:card" content="summary_large_image" />
-  <meta name="twitter:title" content="Chef's Choice — Kitchen Appliance Research" />
+  <meta name="twitter:title" content="Kitchen Appliance Compare — Ratings Research" />
   <meta name="twitter:description" content="Aggregated appliance ratings from Consumer Reports, Wirecutter, Reviewed, Yale, and Rtings. Retune the scoring weights live." />
   <meta name="twitter:image" content="https://krool.github.io/ApplianceCompare/og.png" />
   <!-- Structured data: free reference web app -->
@@ -26,7 +26,7 @@
   {
     "@context": "https://schema.org",
     "@type": "WebApplication",
-    "name": "Chef's Choice",
+    "name": "Kitchen Appliance Compare",
     "url": "https://krool.github.io/ApplianceCompare/",
     "description": "Research kitchen appliances with aggregated ratings from Consumer Reports, Wirecutter, Reviewed, Yale, and Rtings across roughly 200 refrigerators, dishwashers, and ranges.",
     "applicationCategory": "ReferenceApplication",
@@ -41,7 +41,7 @@
     window.dataLayer = window.dataLayer || [];
     function gtag(){dataLayer.push(arguments);}
     gtag('js', new Date());
-    gtag('config', 'G-SXG8M67HPV', { cookie_domain: window.location.hostname, content_group: "Chef's Choice" });
+    gtag('config', 'G-SXG8M67HPV', { cookie_domain: window.location.hostname, content_group: "Kitchen Appliance Compare" });
   </script>
   <link rel="preconnect" href="https://fonts.googleapis.com" />
   <link rel="preconnect" href="https://fonts.gstatic.com" crossorigin />
@@ -71,15 +71,15 @@
   <link rel="preload" as="fetch" href="./data/dishwashers.json" crossorigin />
   <link rel="preload" as="fetch" href="./data/ovens.json" crossorigin />
   <link rel="preload" as="fetch" href="./data/buying-guide.json" crossorigin />
-  <script type="module" crossorigin src="./assets/index-BlzbSOjM.js"></script>
+  <script type="module" crossorigin src="./assets/index-DZJdIyhn.js"></script>
   <link rel="stylesheet" crossorigin href="./assets/index-BK8HVGZK.css">
 </head>
 <body>
   <div id="root">
     <div class="boot" role="status" aria-label="Loading kitchen appliance data">
       <div class="boot-head">
-        <span class="boot-mark">Chef's <em>Choice</em></span>
-        <span class="boot-tag">Loading kitchen appliance research…</span>
+        <span class="boot-mark">Kitchen Appliance <em>Compare</em></span>
+        <span class="boot-tag">Loading appliance ratings research…</span>
       </div>
       <div class="boot-rows">
         <div class="boot-row"></div>

diff --git a/index.html b/index.html
@@ -2,7 +2,7 @@
 <html lang="en">
 <head>
   <meta charset="utf-8" />
-  <title>Chef's Choice — Kitchen Appliance Research, 2026</title>
+  <title>Kitchen Appliance Compare — Ratings Research, 2026</title>
   <meta name="viewport" content="width=device-width,initial-scale=1" />
   <meta http-equiv="Content-Security-Policy" content="default-src 'self'; script-src 'self' https://www.googletagmanager.com; style-src 'self' 'unsafe-inline' https://fonts.googleapis.com; font-src 'self' https://fonts.gstatic.com; img-src 'self' data: https://*.google-analytics.com https://*.googletagmanager.com; connect-src 'self' https://www.google-analytics.com https://*.analytics.google.com https://*.googletagmanager.com; base-uri 'self'; form-action 'none'" />
   <meta name="referrer" content="strict-origin-when-cross-origin" />
@@ -10,15 +10,15 @@
   <link rel="canonical" href="https://krool.github.io/ApplianceCompare/" />
   <!-- Open Graph / Social -->
   <meta property="og:type" content="website" />
-  <meta property="og:site_name" content="Chef's Choice" />
+  <meta property="og:site_name" content="Kitchen Appliance Compare" />
   <meta property="og:url" content="https://krool.github.io/ApplianceCompare/" />
-  <meta property="og:title" content="Chef's Choice — Kitchen Appliance Research" />
+  <meta property="og:title" content="Kitchen Appliance Compare — Ratings Research" />
   <meta property="og:description" content="Aggregated ratings from Consumer Reports, Wirecutter, Reviewed, Yale, and Rtings across ~200 refrigerators, dishwashers, and ranges. Retune the scoring weights live." />
   <meta property="og:image" content="https://krool.github.io/ApplianceCompare/og.png" />
   <meta property="og:image:width" content="1200" />
   <meta property="og:image:height" content="630" />
   <meta name="twitter:card" content="summary_large_image" />
-  <meta name="twitter:title" content="Chef's Choice — Kitchen Appliance Research" />
+  <meta name="twitter:title" content="Kitchen Appliance Compare — Ratings Research" />
   <meta name="twitter:description" content="Aggregated appliance ratings from Consumer Reports, Wirecutter, Reviewed, Yale, and Rtings. Retune the scoring weights live." />
   <meta name="twitter:image" content="https://krool.github.io/ApplianceCompare/og.png" />
   <!-- Structured data: free reference web app -->
@@ -26,7 +26,7 @@
   {
     "@context": "https://schema.org",
     "@type": "WebApplication",
-    "name": "Chef's Choice",
+    "name": "Kitchen Appliance Compare",
     "url": "https://krool.github.io/ApplianceCompare/",
     "description": "Research kitchen appliances with aggregated ratings from Consumer Reports, Wirecutter, Reviewed, Yale, and Rtings across roughly 200 refrigerators, dishwashers, and ranges.",
     "applicationCategory": "ReferenceApplication",
@@ -41,7 +41,7 @@
     window.dataLayer = window.dataLayer || [];
     function gtag(){dataLayer.push(arguments);}
     gtag('js', new Date());
-    gtag('config', 'G-SXG8M67HPV', { cookie_domain: window.location.hostname, content_group: "Chef's Choice" });
+    gtag('config', 'G-SXG8M67HPV', { cookie_domain: window.location.hostname, content_group: "Kitchen Appliance Compare" });
   </script>
   <link rel="preconnect" href="https://fonts.googleapis.com" />
   <link rel="preconnect" href="https://fonts.gstatic.com" crossorigin />
@@ -76,8 +76,8 @@
   <div id="root">
     <div class="boot" role="status" aria-label="Loading kitchen appliance data">
       <div class="boot-head">
-        <span class="boot-mark">Chef's <em>Choice</em></span>
-        <span class="boot-tag">Loading kitchen appliance research…</span>
+        <span class="boot-mark">Kitchen Appliance <em>Compare</em></span>
+        <span class="boot-tag">Loading appliance ratings research…</span>
       </div>
       <div class="boot-rows">
         <div class="boot-row"></div>

diff --git a/src/app.jsx b/src/app.jsx
@@ -1,4 +1,4 @@
-// Main app — Chef's Choice
+// Main app — Kitchen Appliance Compare
 import { useState, useEffect, useMemo, useRef } from 'react';
 import { Sidebar } from './sidebar.jsx';
 import { ApplianceTable, Drawer, CompareBar, CompareModal } from './table-views.jsx';
@@ -287,8 +287,8 @@ function App({ data }) {
       <header className="site-header">
         <div className="header-inner">
           <div className="brand">
-            <span className="brand-mark">Chef's <em>Choice</em></span>
-            <span className="brand-tag">Kitchen appliance research · 2026</span>
+            <span className="brand-mark">Kitchen Appliance <em>Compare</em></span>
+            <span className="brand-tag">Aggregated ratings research · 2026</span>
           </div>
           <nav className="tabs" aria-label="Section">
             {tabs.map(t => (
@@ -327,7 +327,7 @@ function App({ data }) {
             onClearAll={() => { setFilters({}); setSearch(''); }}
           />
           <div className="main">
-            <h1 className="sr-only">Chef's Choice — {tabs.find(t => t.id === tab)?.label || 'kitchen appliance'} research</h1>
+            <h1 className="sr-only">Kitchen Appliance Compare — {tabs.find(t => t.id === tab)?.label || 'kitchen appliance'} research</h1>
             <div className="toolbar">
               <div className="search-box">
                 <input value={search} onChange={e => setSearch(e.target.value)} aria-label={`Search ${tabs.find(t => t.id === tab)?.label.toLowerCase()}`} placeholder={`Search ${tabs.find(t => t.id === tab)?.label.toLowerCase()}…`} />

diff --git a/src/helpers.jsx b/src/helpers.jsx
@@ -1,4 +1,4 @@
-// Helpers and shared logic for Chef's Choice.
+// Helpers and shared logic for Kitchen Appliance Compare.
 // Pure helpers — no React hooks used here, so no React import required.
 
 // Format

diff --git a/src/styles.css b/src/styles.css
@@ -1,4 +1,4 @@
-/* Chef's Choice — kitchen appliance research site */
+/* Kitchen Appliance Compare — kitchen appliance research site */
 :root {
   --bg: #faf8f4;
   --bg-elev: #ffffff;

diff --git a/README.md b/README.md
@@ -1,4 +1,4 @@
-# Chef's Choice
+# Kitchen Appliance Compare
 
 A public research tool for comparing kitchen appliances — refrigerators, dishwashers, and ranges/ovens/cooktops — with aggregated ratings and a transparent, tweakable composite score.
 
@@ -105,7 +105,7 @@ GitHub Pages serves the built output from the `docs/` folder on `main`.
    npm run build                 # produces docs/
    git init
    git add .
-   git commit -m "Initial commit: Chef's Choice appliance comparison site"
+   git commit -m "Initial commit: Kitchen Appliance Compare appliance comparison site"
    git branch -M main
    git remote add origin https://github.com/<your-username>/<repo>.git
    git push -u origin main

diff --git a/CLAUDE.md b/CLAUDE.md
@@ -1,4 +1,4 @@
-# Chef's Choice — contributor notes for Claude
+# Kitchen Appliance Compare — contributor notes for Claude
 
 Public research site comparing kitchen appliances. Vite + React static build
 deployed via GitHub Pages from `/docs`. Read `README.md` for orientation and
